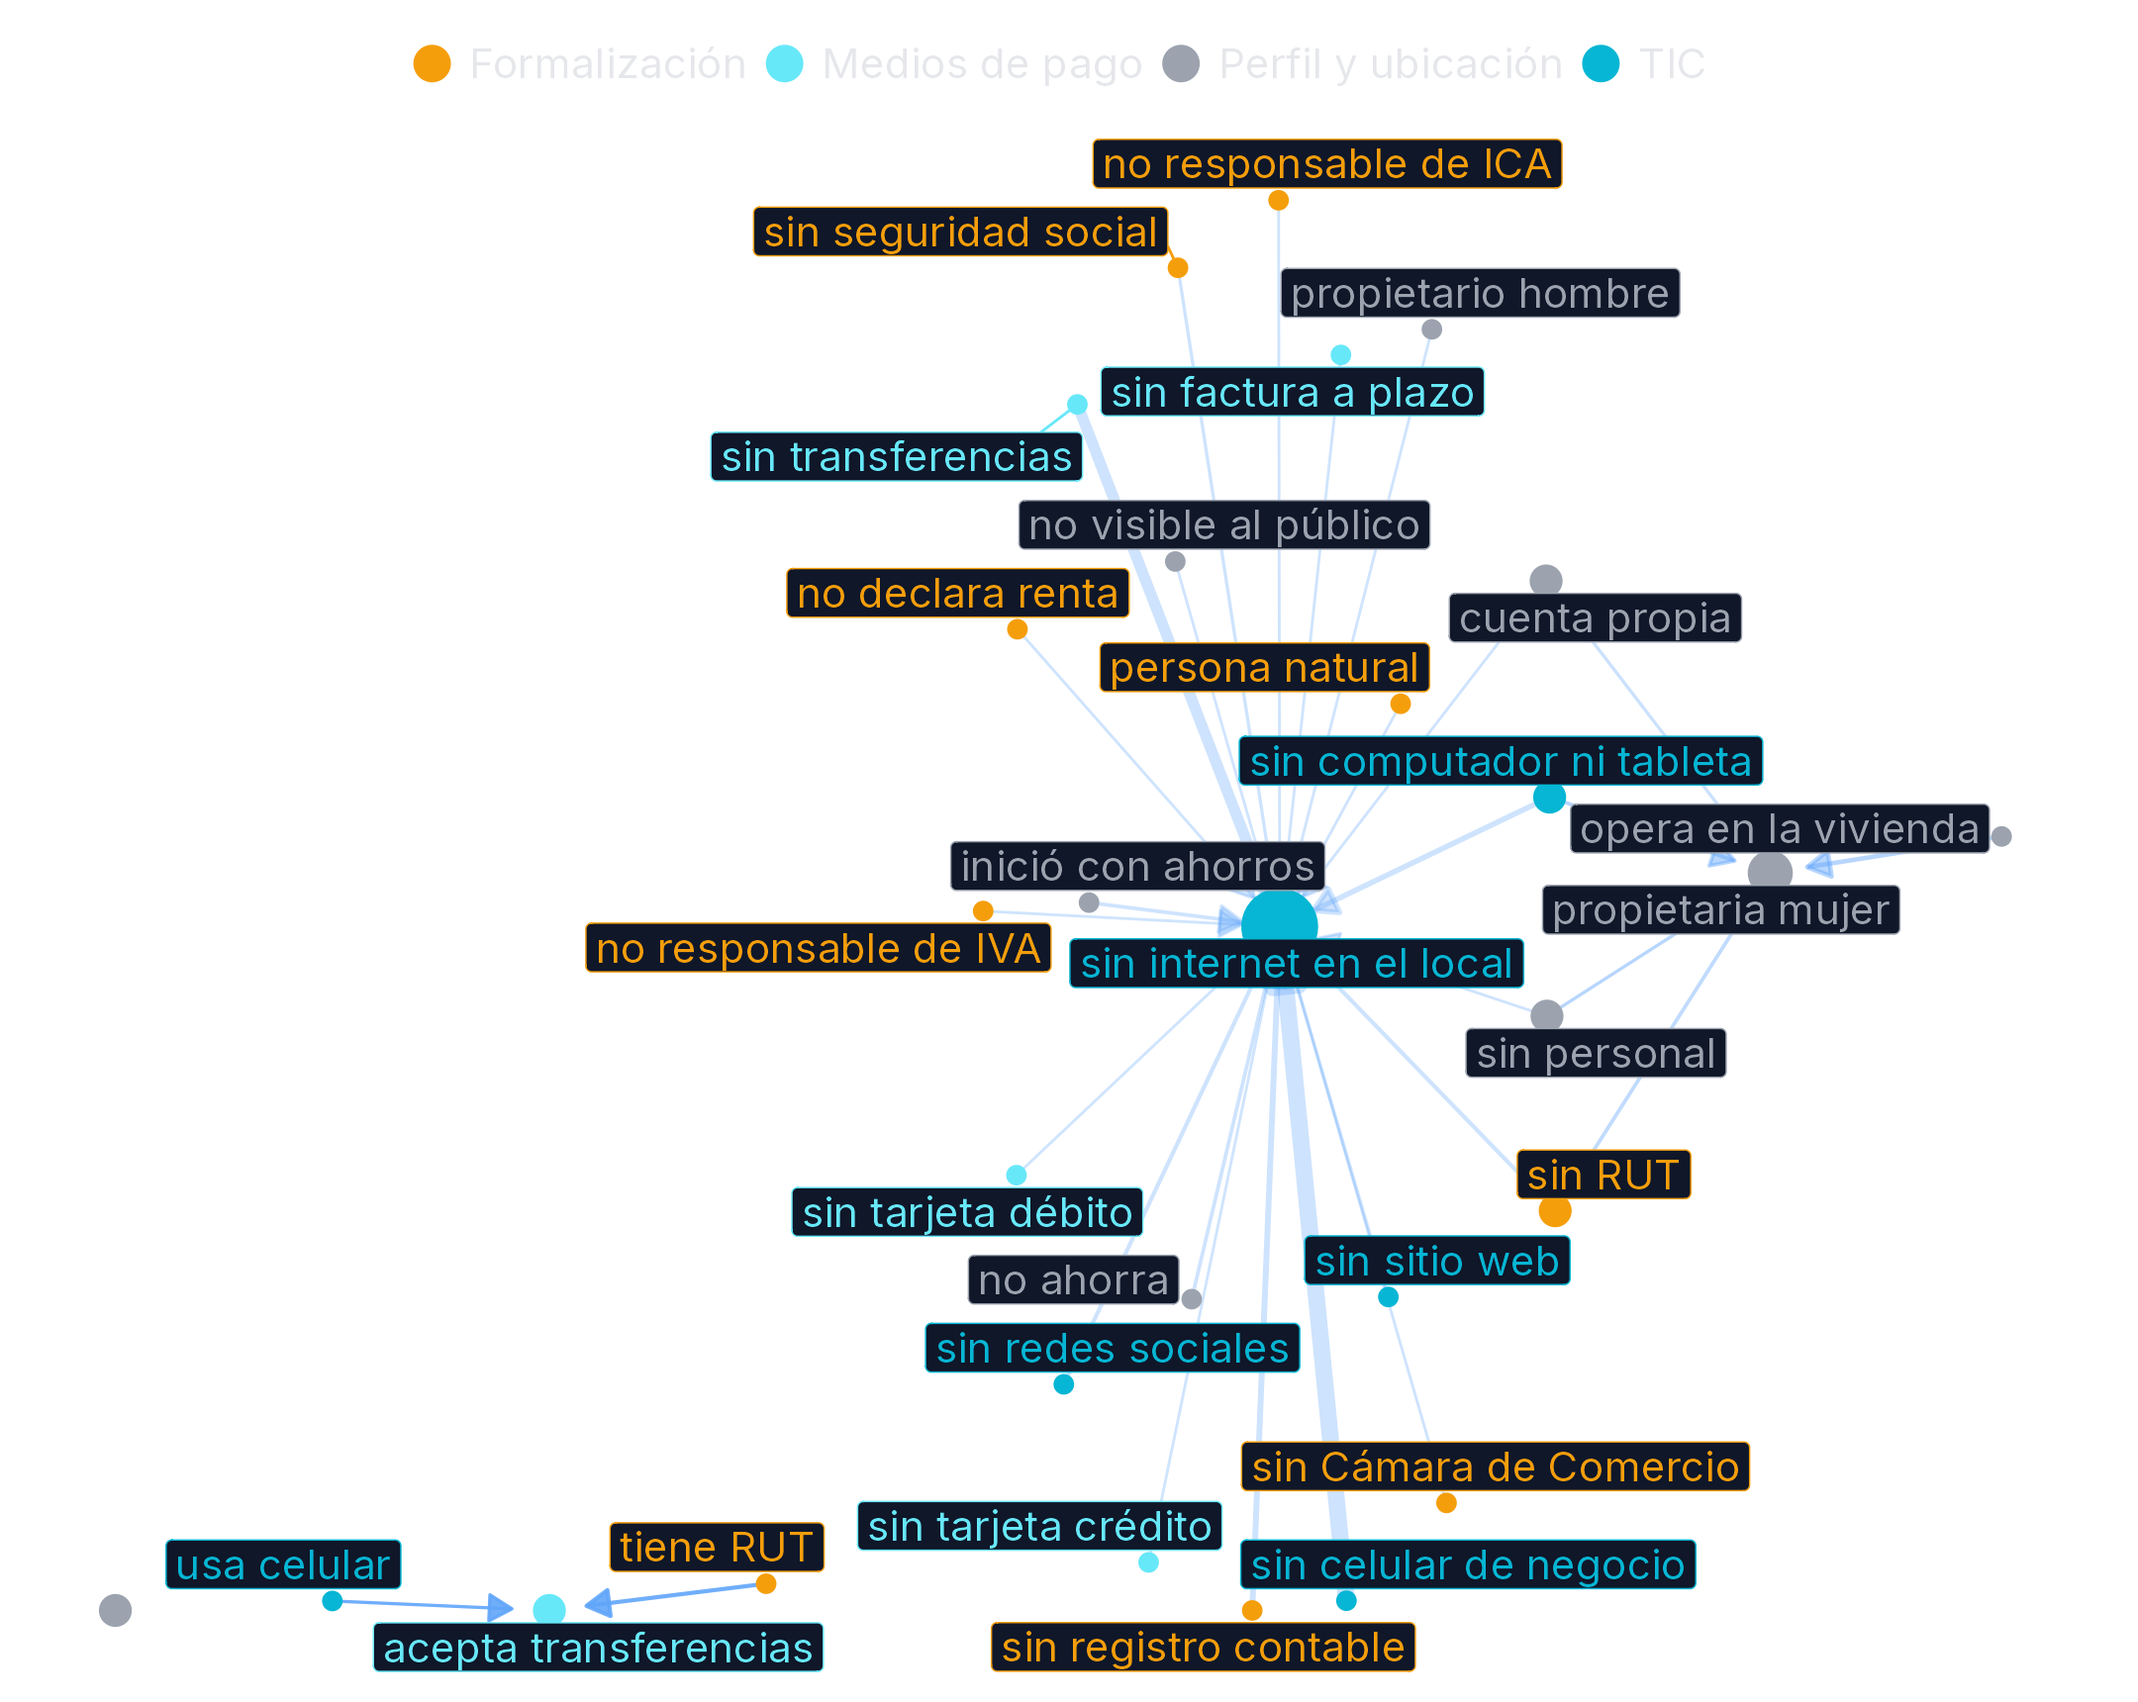
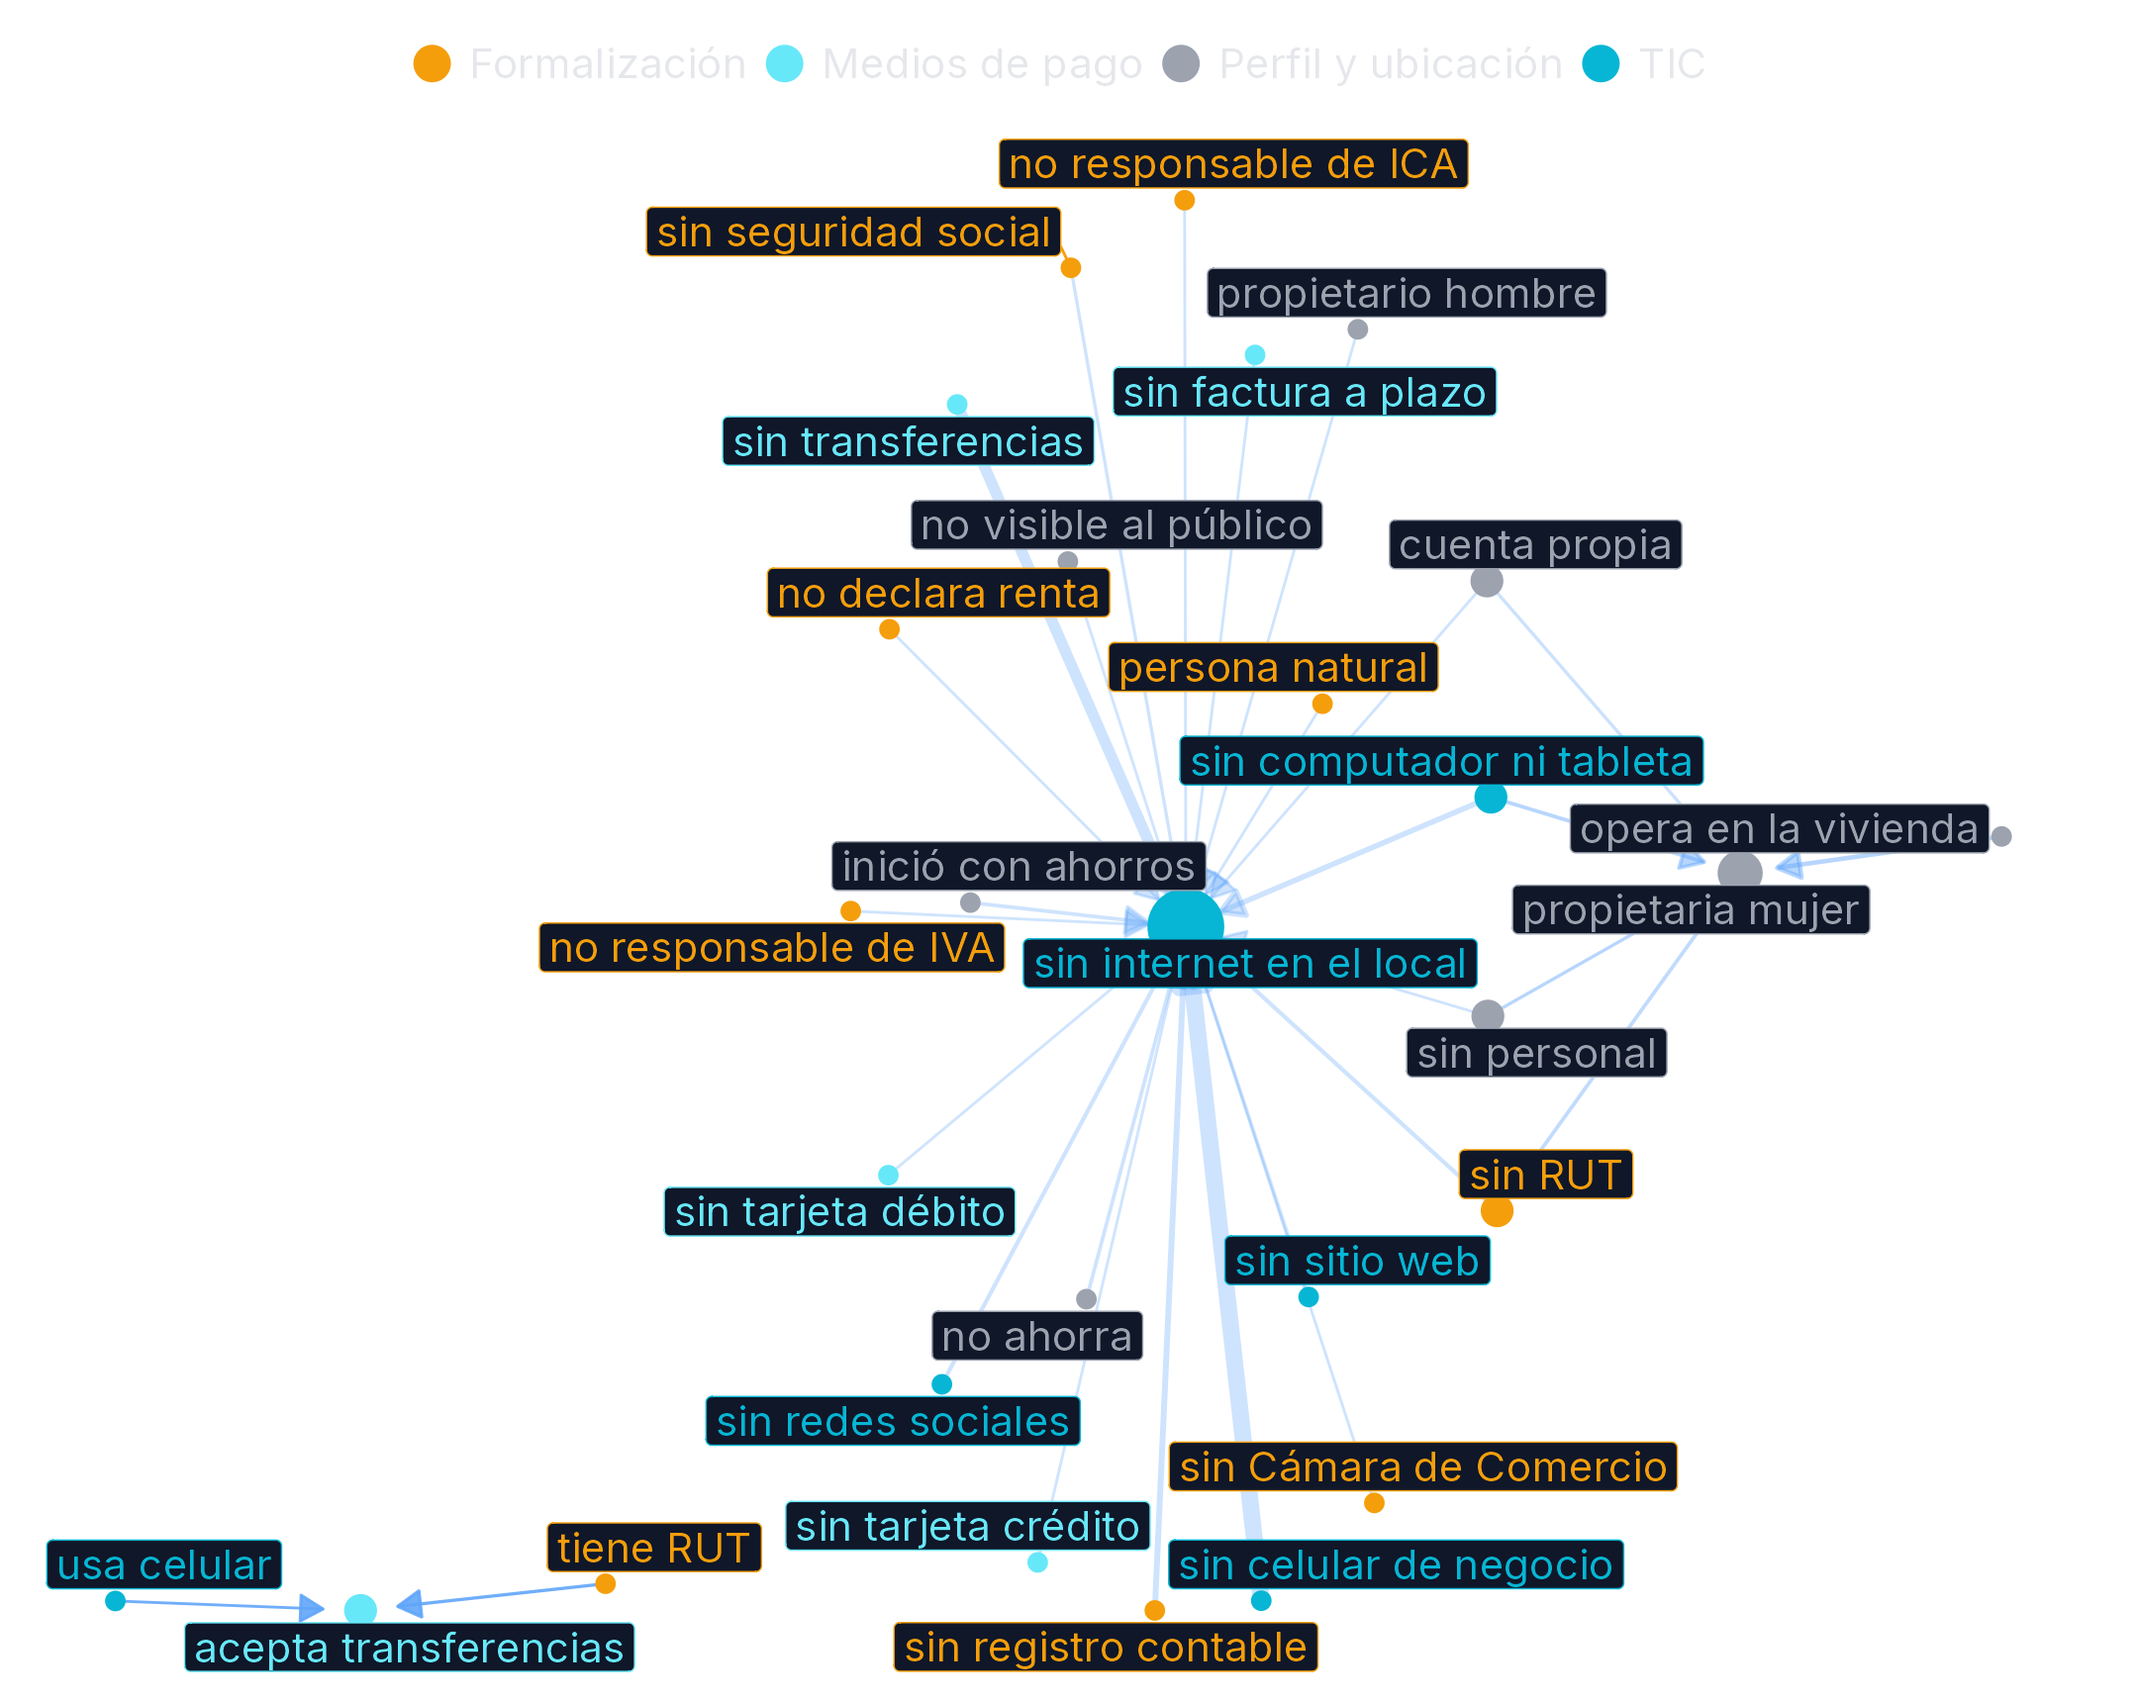
fix(presentacion): red sin nodo vacío, 1,44 millones en la regla de exclusión y rótulo exacto de las 39 reglas
- La red dibuja solo las 40 reglas de mayor lift ponderado: pedir 6 reglas
  hacia transferencias (solo existen 2, ya incluidas) duplicaba esas flechas
  y creaba un nodo vacío.
- Los negocios de la regla de exclusión se cuentan con la suma de F_EXP de
  los registros de Apriori (1,44 millones), no con el universo total.
- La diapositiva 8 aclara que las 39 reglas vienen del análisis general y de
  los dirigidos.

Changed region(s): [[0.0, 0.0616, 0.8995, 0.986]]

diff --git a/presentacion/index.html b/presentacion/index.html
@@ -379,7 +379,7 @@ lift_pond <span class="o">&lt;-</span> s_xy / (s_x * s_y)
   <div class="funnel">
     <div class="f"><div class="bar" style="height:62%;"></div><div class="num" data-v="n_generadas" data-f="num0"></div><div class="lbl">reglas generadas por <code>apriori()</code></div></div>
     <div class="f"><div class="bar" style="height:29%;"></div><div class="num" data-v="n_no_redund" data-f="num0"></div><div class="lbl">no redundantes: se quita una regla si otra más general ya tiene igual o mayor confianza (<code>is.redundant()</code>)</div></div>
-    <div class="f"><div class="bar" style="height:4%;"></div><div class="num" data-v="n_39"></div><div class="lbl">con soporte &gt; 20 % en los análisis dirigidos: las que sostienen el relato</div></div>
+    <div class="f"><div class="bar" style="height:4%;"></div><div class="num" data-v="n_39"></div><div class="lbl">de mayor lift (generales y dirigidas) con soporte &gt; 20 %: las que sostienen el relato</div></div>
   </div>
   <span class="src">output/tablas/12_sensibilidad_umbrales.csv · 10_TABLA_RESUMEN_FILTRADA_20PCT.csv</span>
   <aside class="notes">Con esos umbrales salen ciento diecinueve mil reglas; quitando las redundantes quedan cincuenta y seis mil; y trabajo con las treinta y nueve que tienen soporte mayor al veinte por ciento en los análisis dirigidos. Tres de ellas son las que les voy a contar.</aside>
@@ -409,7 +409,7 @@ lift_pond <span class="o">&lt;-</span> s_xy / (s_x * s_y)
     <span class="caveat" style="align-self:flex-start;">asociación ≠ causalidad</span>
   </div>
   <div class="figbox"><img class="fig" data-fig="red" alt="Red de las reglas con mayor lift"></div>
-  <span class="src">40 reglas con mayor lift ponderado + 6 mejores hacia transferencias · ancho = n.º de reglas · output/tablas/06b_reglas_ponderadas.csv</span>
+  <span class="src">40 reglas con mayor lift ponderado · ancho = n.º de reglas · output/tablas/06b_reglas_ponderadas.csv</span>
   <aside class="notes">Si dibujamos las reglas con mayor lift como una red, los ítems digitales forman un solo bloque. Y a la izquierda abajo, el bloque positivo: celular, internet y RUT apuntando a transferencias. No son variables sueltas: es un sistema acoplado. Una política que ataque un solo eslabón está trabajando contra la estructura.</aside>
 </section>
 

diff --git a/presentacion/datos.js b/presentacion/datos.js
@@ -31,7 +31,7 @@ window.DATOS = {
     "sop": 27.6301154152609,
     "lift": 1.90231649530864,
     "lift_m": 1.97335071089112,
-    "negocios": 1463636.84143722
+    "negocios": 1437645.89416387
   },
   "regla_cel": {
     "lhs": "sin celular de negocio",
@@ -284,5 +284,5 @@ window.DATOS = {
       "Pct_Con_RUT": 27.91
     }
   ],
-  "generado_en": "2026-11-10 10:43"
+  "generado_en": "2026-11-10 17:43"
 };
